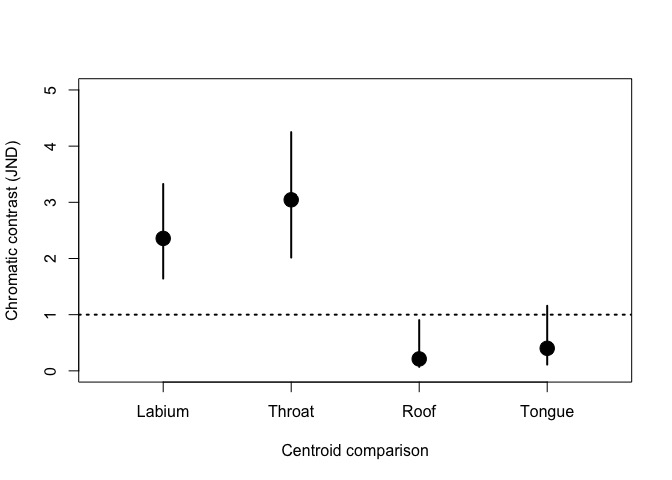
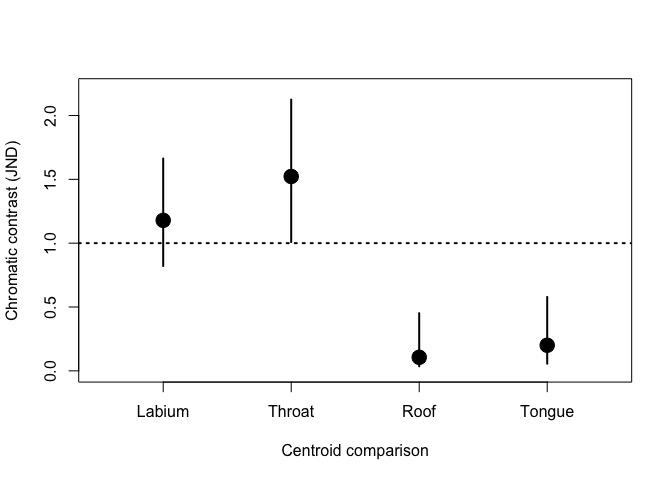
new figures

diff --git a/Rmd/examples.md b/Rmd/examples.md
@@ -75,7 +75,7 @@ models <- lapply(specs, vismodel, visual = liz_vis, relative = FALSE, qcatch='Qi
 spaces <- lapply(models, colspace)
 
 deltaS <- lapply(models, coldist, achro = FALSE, n = c(1,1,3.5,6), 
-                                  weber = 0.05, noise = "neural")
+                                  weber = 0.1, noise = "neural")
 ```
 
 Visualise
@@ -151,9 +151,9 @@ adonis(mat$lab ~ group$lab)
     ## Terms added sequentially (first to last)
     ## 
     ##           Df SumsOfSqs MeanSqs F.Model      R2 Pr(>F)    
-    ## group$lab  1     98.04  98.038  13.964 0.19678  0.001 ***
-    ## Residuals 57    400.17   7.021         0.80322           
-    ## Total     58    498.21                 1.00000           
+    ## group$lab  1    24.509 24.5094  13.964 0.19678  0.001 ***
+    ## Residuals 57   100.042  1.7551         0.80322           
+    ## Total     58   124.552                 1.00000           
     ## ---
     ## Signif. codes:  0 '***' 0.001 '**' 0.01 '*' 0.05 '.' 0.1 ' ' 1
 
@@ -172,9 +172,9 @@ adonis(mat$roof ~ group$roof)
     ## Terms added sequentially (first to last)
     ## 
     ##            Df SumsOfSqs MeanSqs F.Model      R2 Pr(>F)
-    ## group$roof  1     2.251  2.2511 0.52282 0.00942  0.498
-    ## Residuals  55   236.813  4.3057         0.99058       
-    ## Total      56   239.065                 1.00000
+    ## group$roof  1     0.563 0.56278 0.52282 0.00942  0.498
+    ## Residuals  55    59.203 1.07642         0.99058       
+    ## Total      56    59.766                 1.00000
 
 ``` r
 # Throat
@@ -191,9 +191,9 @@ adonis(mat$throat ~ group$throat)
     ## Terms added sequentially (first to last)
     ## 
     ##              Df SumsOfSqs MeanSqs F.Model      R2 Pr(>F)    
-    ## group$throat  1    170.26 170.261  14.842 0.20376  0.001 ***
-    ## Residuals    58    665.34  11.471         0.79624           
-    ## Total        59    835.60                 1.00000           
+    ## group$throat  1    42.565  42.565  14.842 0.20376  0.001 ***
+    ## Residuals    58   166.335   2.868         0.79624           
+    ## Total        59   208.901                 1.00000           
     ## ---
     ## Signif. codes:  0 '***' 0.001 '**' 0.01 '*' 0.05 '.' 0.1 ' ' 1
 
@@ -212,9 +212,9 @@ adonis(mat$tongue ~ group$tongue)
     ## Terms added sequentially (first to last)
     ## 
     ##              Df SumsOfSqs MeanSqs F.Model      R2 Pr(>F)
-    ## group$tongue  1      8.65  8.6466  1.6293 0.02732  0.223
-    ## Residuals    58    307.81  5.3071         0.97268       
-    ## Total        59    316.46                 1.00000
+    ## group$tongue  1     2.162  2.1617  1.6293 0.02732  0.223
+    ## Residuals    58    76.953  1.3268         0.97268       
+    ## Total        59    79.115                 1.00000
 
 **LESS SHITTY ALTERNATIVE?**
 
@@ -267,11 +267,11 @@ adonis2(mat$all ~ cgmmat[,'cpatch1'] + cgmmat[,'cpatch2'] +
     ## 
     ## adonis2(formula = mat$all ~ cgmmat[, "cpatch1"] + cgmmat[, "cpatch2"] + cgmmat[, "cpatch3"] + cgmmat[, "cpatch4"], by = "margin")
     ##                      Df SumOfSqs      F Pr(>F)  
-    ## cgmmat[, "cpatch1"]   1    380.4 4.5754  0.030 *
-    ## cgmmat[, "cpatch2"]   1    129.6 1.5585  0.225  
-    ## cgmmat[, "cpatch3"]   1     28.7 0.3456  0.618  
-    ## cgmmat[, "cpatch4"]   1     67.9 0.8172  0.390  
-    ## Residual            231  19205.8                
+    ## cgmmat[, "cpatch1"]   1     95.1 4.5754  0.030 *
+    ## cgmmat[, "cpatch2"]   1     32.4 1.5585  0.225  
+    ## cgmmat[, "cpatch3"]   1      7.2 0.3456  0.618  
+    ## cgmmat[, "cpatch4"]   1     17.0 0.8172  0.390  
+    ## Residual            231   4801.5                
     ## ---
     ## Signif. codes:  0 '***' 0.001 '**' 0.01 '*' 0.05 '.' 0.1 ' ' 1
 
@@ -292,7 +292,7 @@ models$tongue$group <- substring(rownames(models$tongue), 1, 1)
 
 # labium
 laboot <- bootcentroidDS(models$lab[,1:4], models$lab$group, 
-                         n=c(1,1,3.5,6), weber=0.05, qcatch='Qi', achro=FALSE)
+                         n=c(1,1,3.5,6), weber=0.1, qcatch='Qi', achro=FALSE)
 ```
 
     ## Warning: number of cones not specified; assumed to be 4
@@ -300,7 +300,7 @@ laboot <- bootcentroidDS(models$lab[,1:4], models$lab$group,
 ``` r
 # throat
 thboot <- bootcentroidDS(models$throat[,1:4], models$throat$group, 
-                         n=c(1,1,3.5,6), weber=0.05, qcatch='Qi', achro=FALSE)
+                         n=c(1,1,3.5,6), weber=0.1, qcatch='Qi', achro=FALSE)
 ```
 
     ## Warning: number of cones not specified; assumed to be 4
@@ -308,7 +308,7 @@ thboot <- bootcentroidDS(models$throat[,1:4], models$throat$group,
 ``` r
 # roof
 roboot <- bootcentroidDS(models$roof[,1:4], models$roof$group, 
-                         n=c(1,1,3.5,6), weber=0.05, qcatch='Qi', achro=FALSE)
+                         n=c(1,1,3.5,6), weber=0.1, qcatch='Qi', achro=FALSE)
 ```
 
     ## Warning: number of cones not specified; assumed to be 4
@@ -316,7 +316,7 @@ roboot <- bootcentroidDS(models$roof[,1:4], models$roof$group,
 ``` r
 # tongue
 toboot <- bootcentroidDS(models$tongue[,1:4], models$tongue$group, 
-                         n=c(1,1,3.5,6), weber=0.05, qcatch='Qi', achro=FALSE)
+                         n=c(1,1,3.5,6), weber=0.1, qcatch='Qi', achro=FALSE)
 ```
 
     ## Warning: number of cones not specified; assumed to be 4
@@ -325,7 +325,17 @@ toboot <- bootcentroidDS(models$tongue[,1:4], models$tongue$group,
 bootres <- rbind(laboot, thboot, roboot, toboot)
 rownames(bootres) <- c('Labium', 'Throat', 'Roof', 'Tongue')
 
-plot(bootres[,1], xlim=c(0.5, 4.5), ylim=c(0, 5), pch=21, bg=1, cex=2, xaxt='n', xlab='Centroid comparison', ylab='Chromatic contrast (JND)')
+bootres
+```
+
+    ##        measured.dS     CI.lwr    CI.upr
+    ## Labium   1.1788081 0.82117971 1.6630098
+    ## Throat   1.5222987 1.00830608 2.1245782
+    ## Roof     0.1061599 0.03523353 0.4516327
+    ## Tongue   0.2006113 0.05561841 0.5790327
+
+``` r
+plot(bootres[,1], xlim=c(0.5, 4.5), ylim=c(0, 2.2), pch=21, bg=1, cex=2, xaxt='n', xlab='Centroid comparison', ylab='Chromatic contrast (JND)')
 
 abline(h=1, lty=3, lwd=2)
 segments(1:4, bootres[,2], 1:4, bootres[,3], lwd=2)
@@ -396,7 +406,7 @@ scatterplot3d(spaces[['tongue']][,c('x','y','z')],
 par(mar=oma)
 par(mar=c(4,4,1,1)+0.1)
 
-plot(rev(bootres[,1]), 1:4, ylim=c(0.8, 4.2), xlim=c(0, 5), pch=21, bg=1, cex=2, yaxt='n', ylab='Body patch', xlab='Chromatic contrast (JND)')
+plot(rev(bootres[,1]), 1:4, ylim=c(0.8, 4.2), xlim=c(0, 2.2), pch=21, bg=1, cex=2, yaxt='n', ylab='Body patch', xlab='Chromatic contrast (JND)')
 axis(2, at=1:4, labels=rev(rownames(bootres)))
 
 abline(v=1, lty=3, lwd=2)
